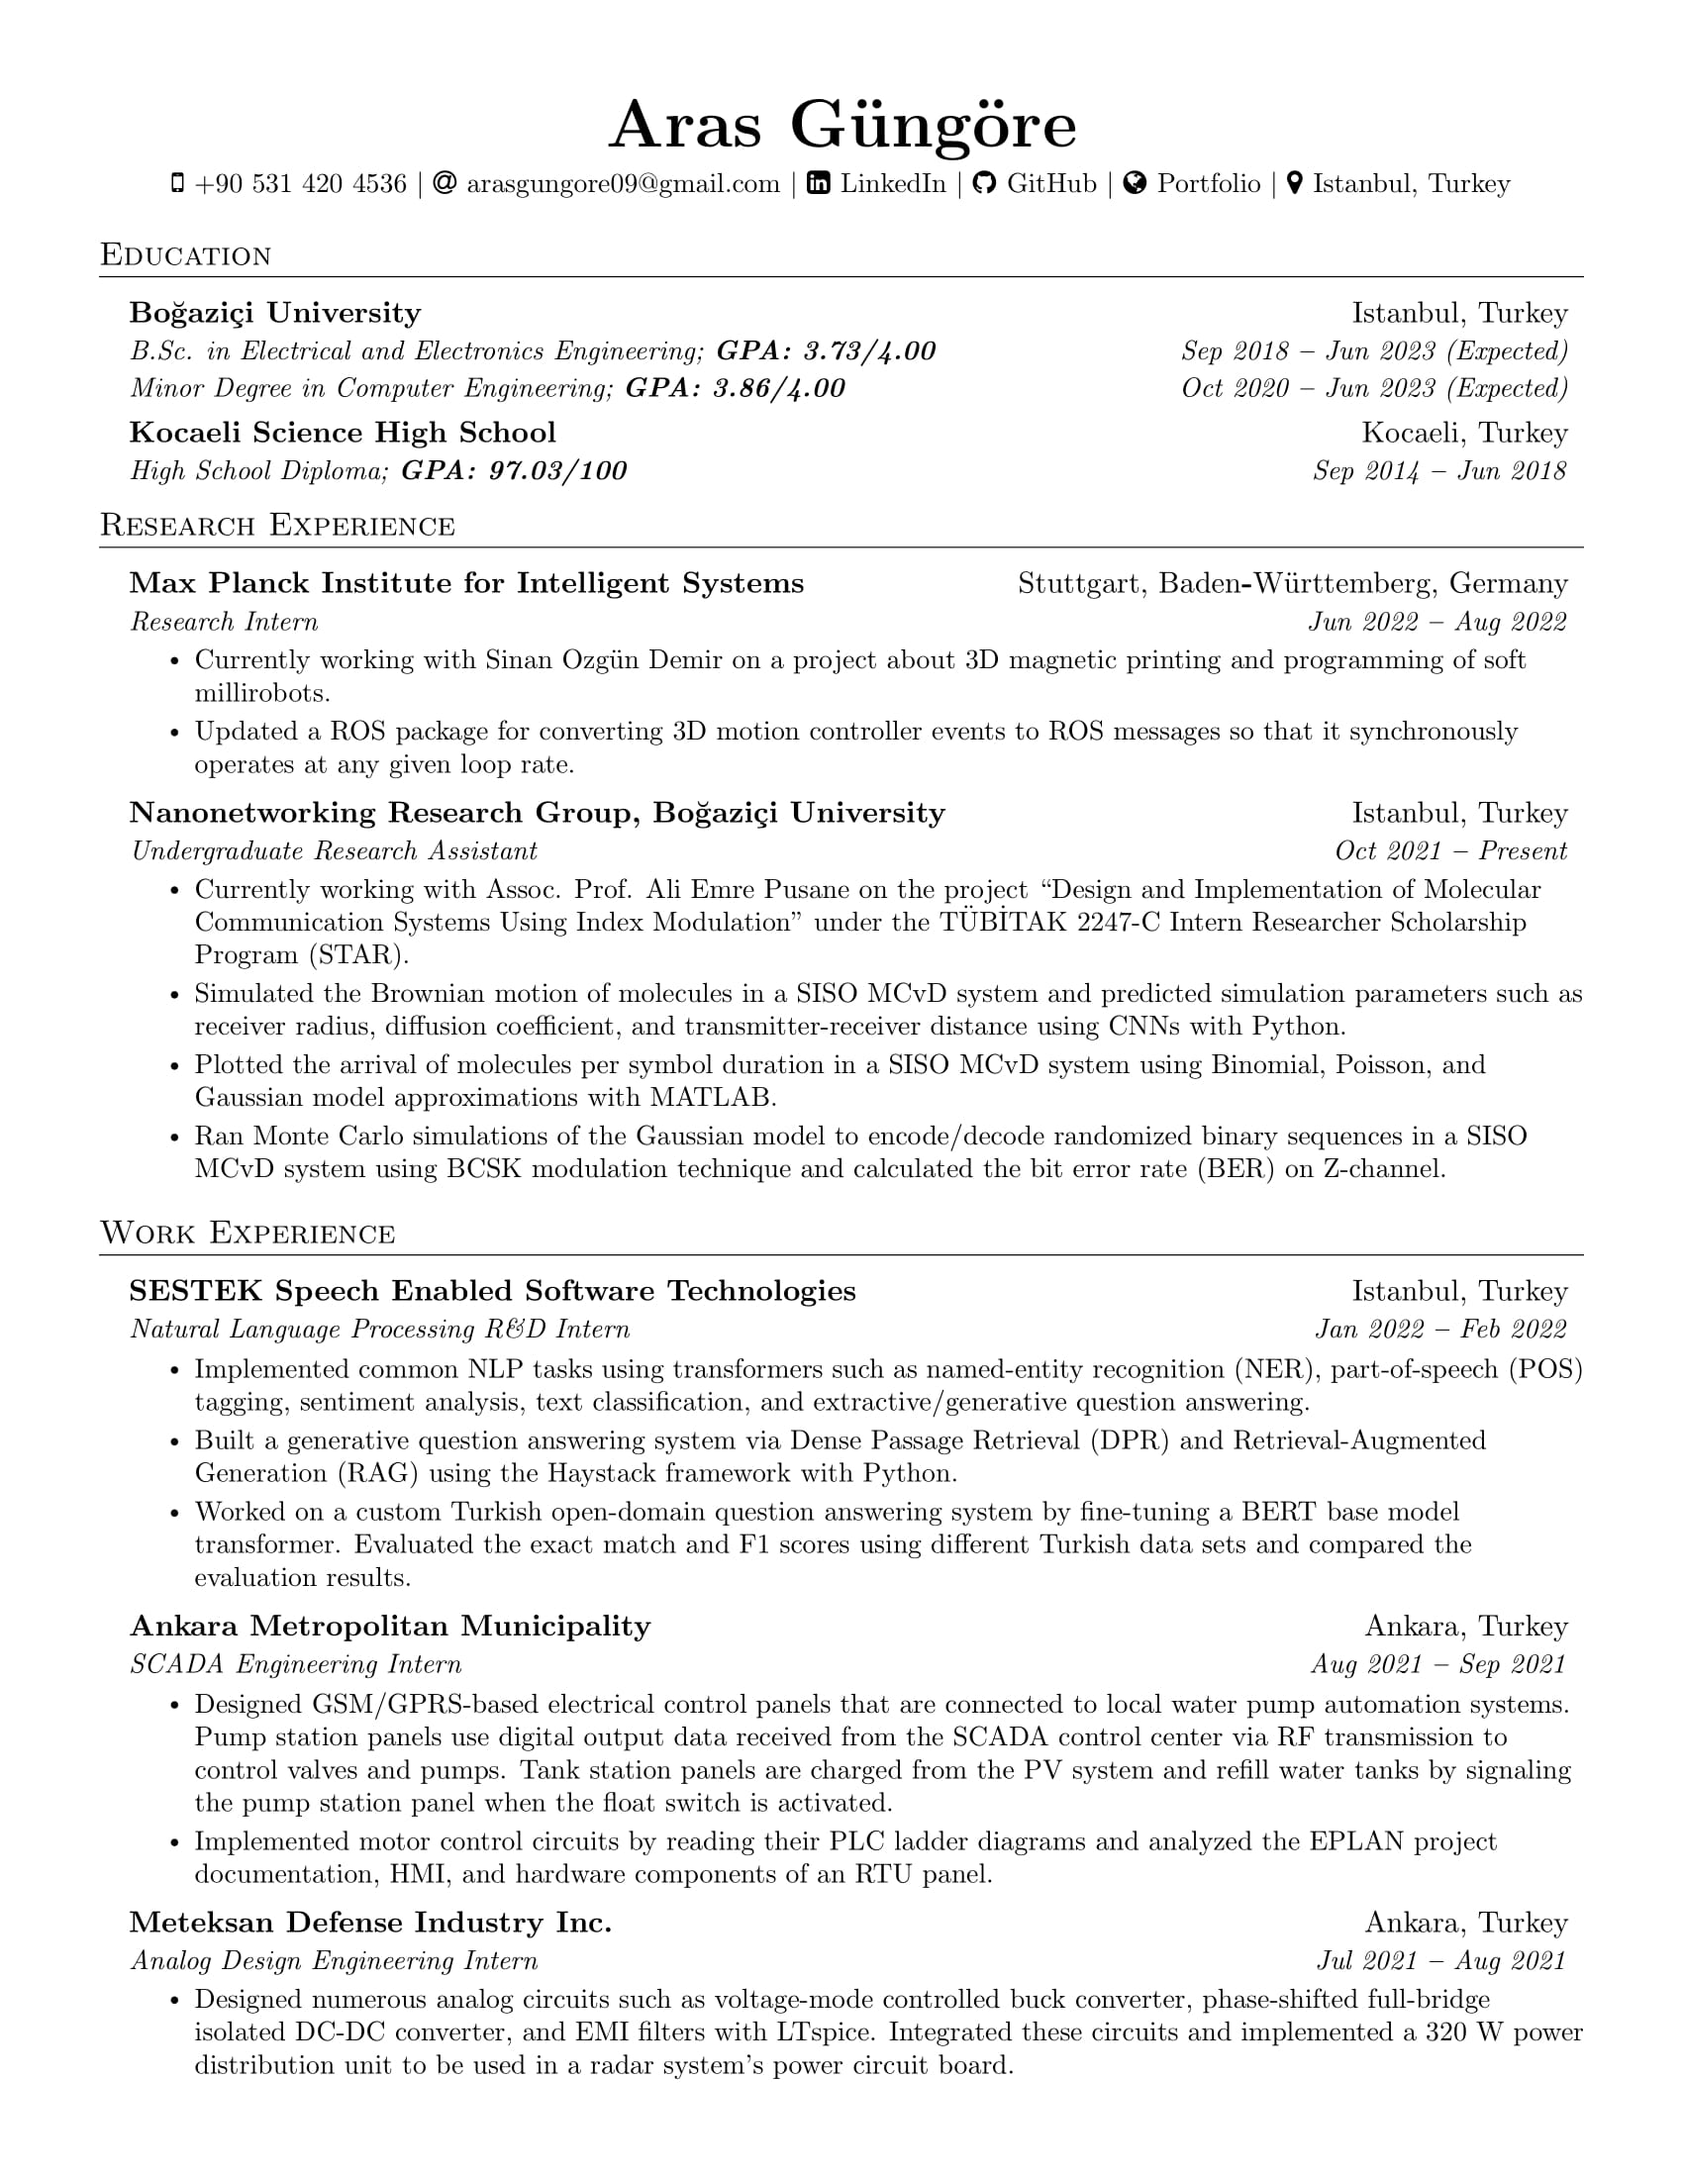
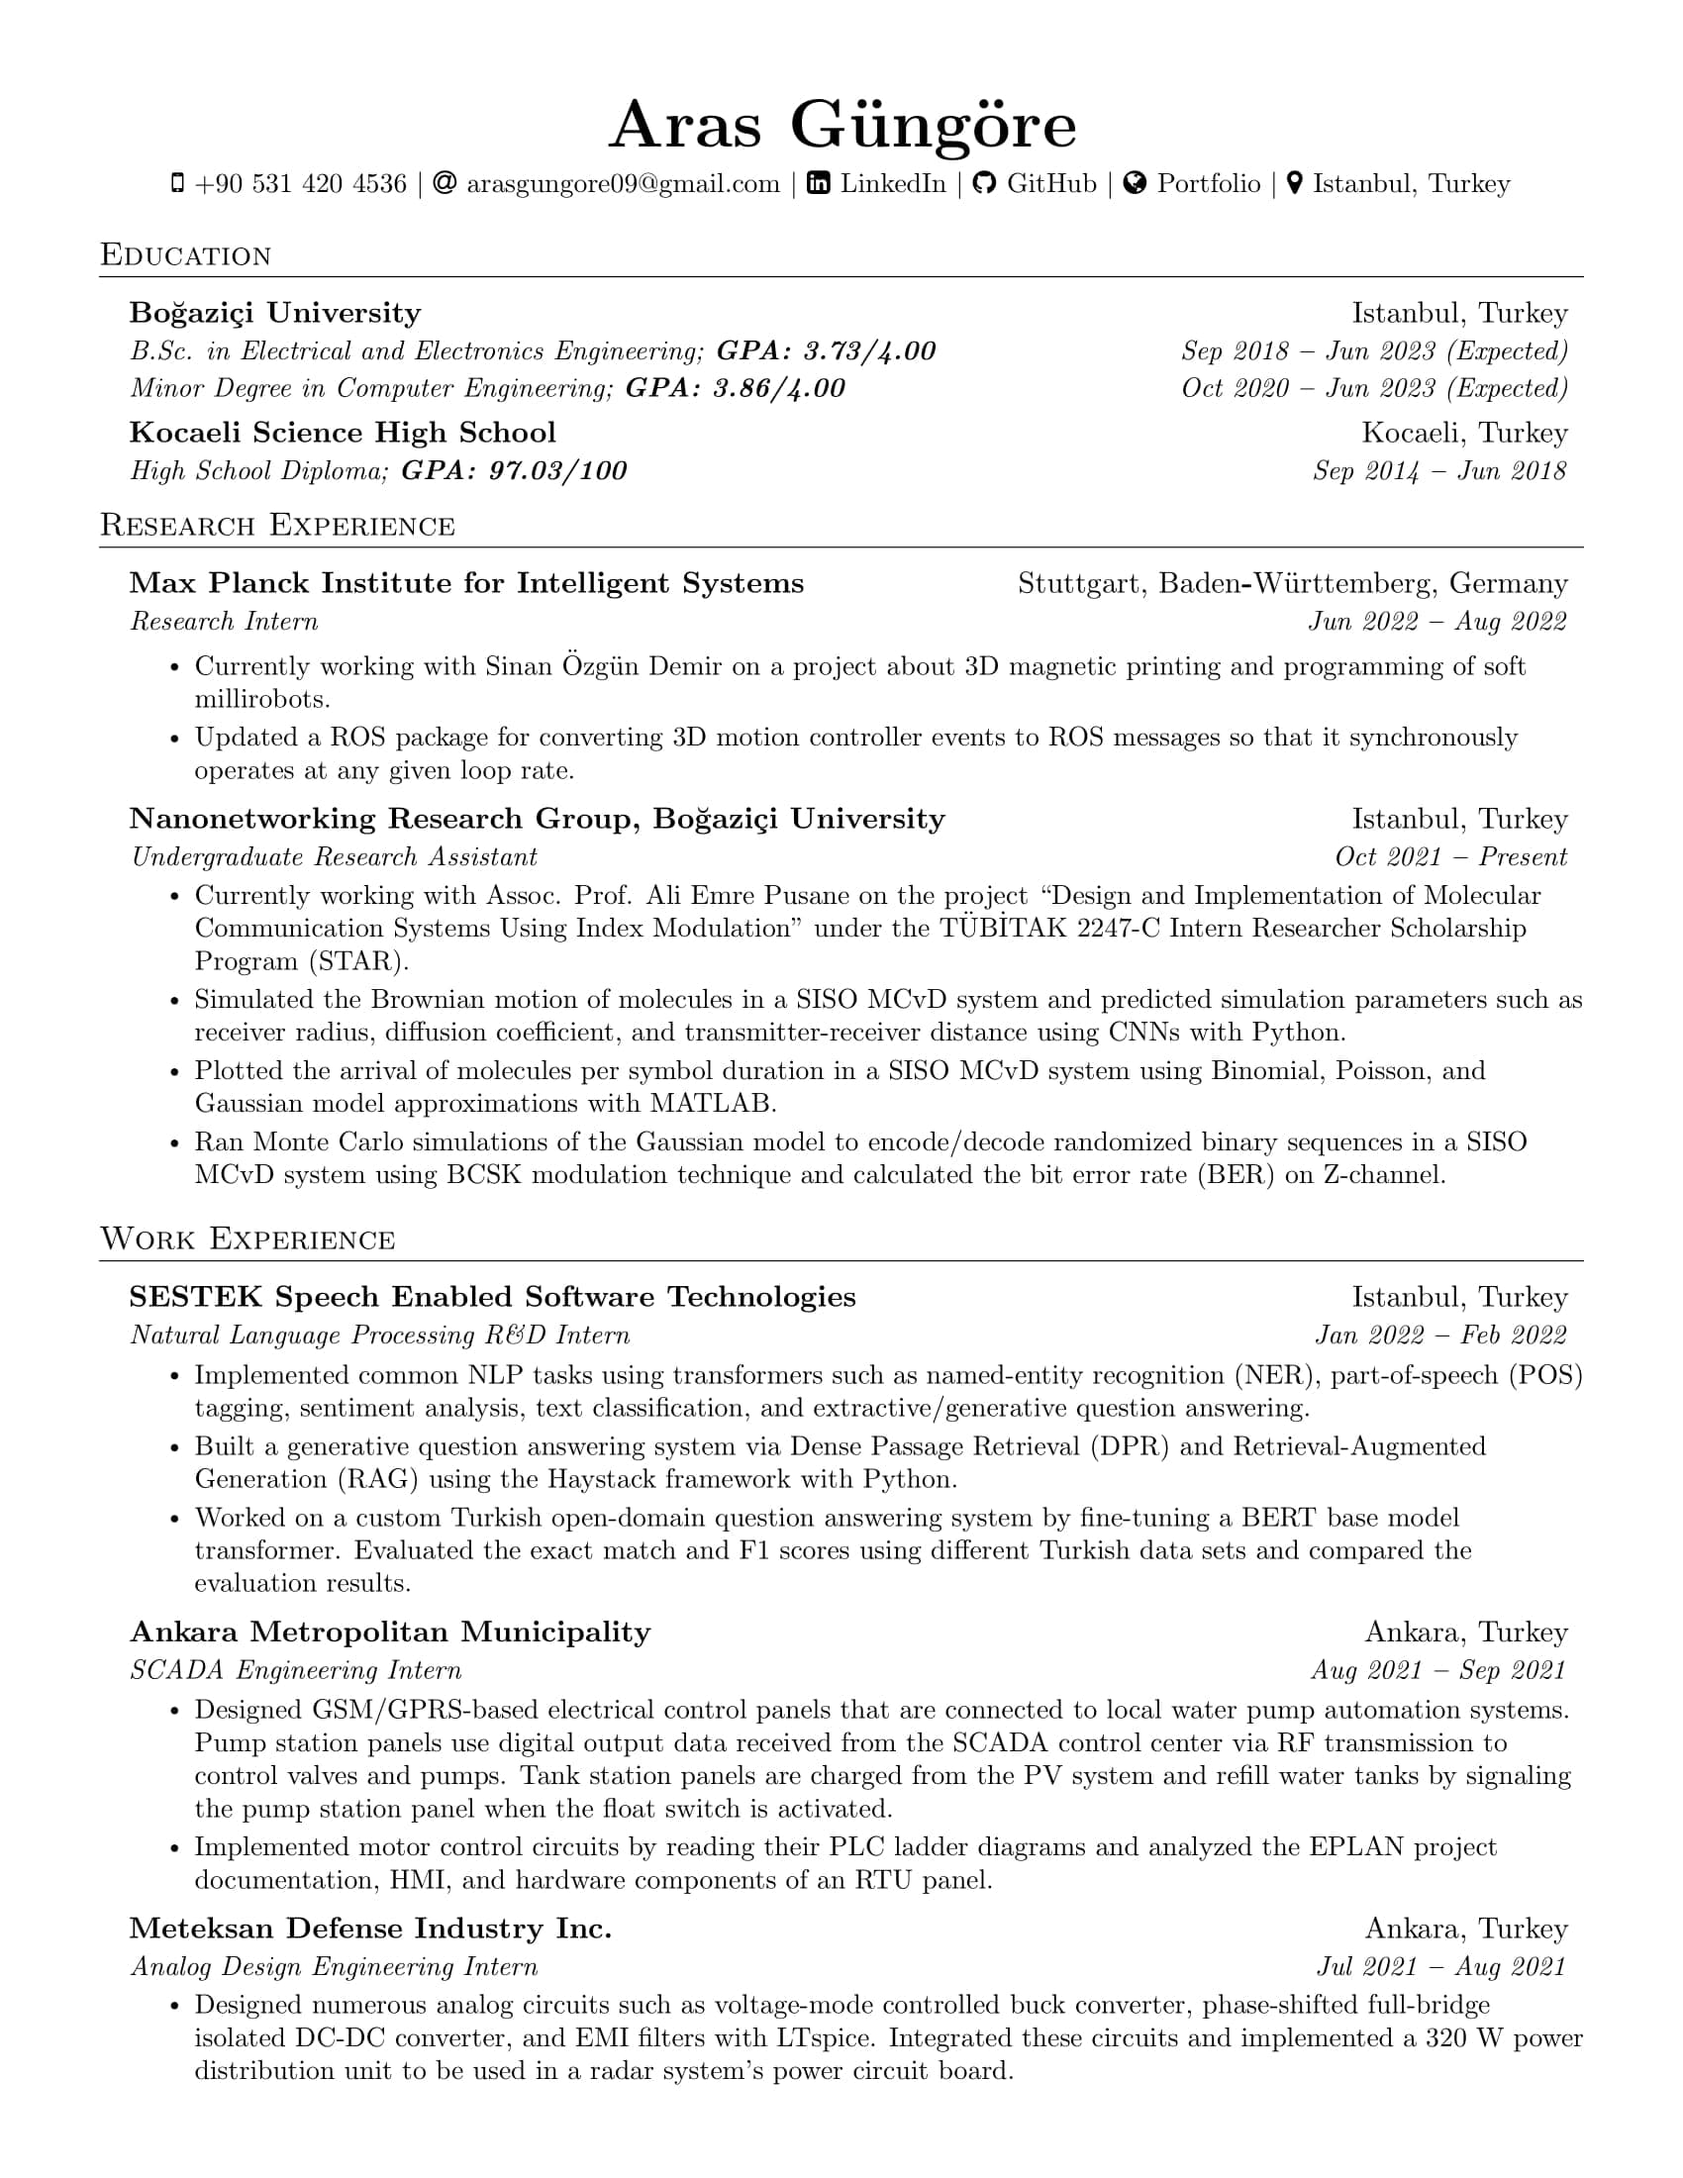
Updated CV

Changed region(s): [[0.0624, 0.2782, 0.9353, 0.9582], [0.8729, 0.4945, 0.9041, 0.5255]]

diff --git a/main.tex b/main.tex
@@ -185,7 +185,7 @@
       {Max Planck Institute for Intelligent Systems}{Stuttgart, Baden\textbf{-}Württemberg, Germany}
       {Research Intern}{Jun 2022 \textbf{--} Aug 2022}
         \resumeItemListStart
-            \resumeItem{Currently working with Sinan Ozgün Demir on a project about 3D magnetic printing and programming of soft millirobots.}
+            \resumeItem{Currently working with Sinan Özgün Demir on a project about 3D magnetic printing and programming of soft millirobots.}
             \resumeItem{Updated a ROS package for converting 3D motion controller events to ROS messages so that it synchronously operates at any given loop rate.}
         \resumeItemListEnd
     
